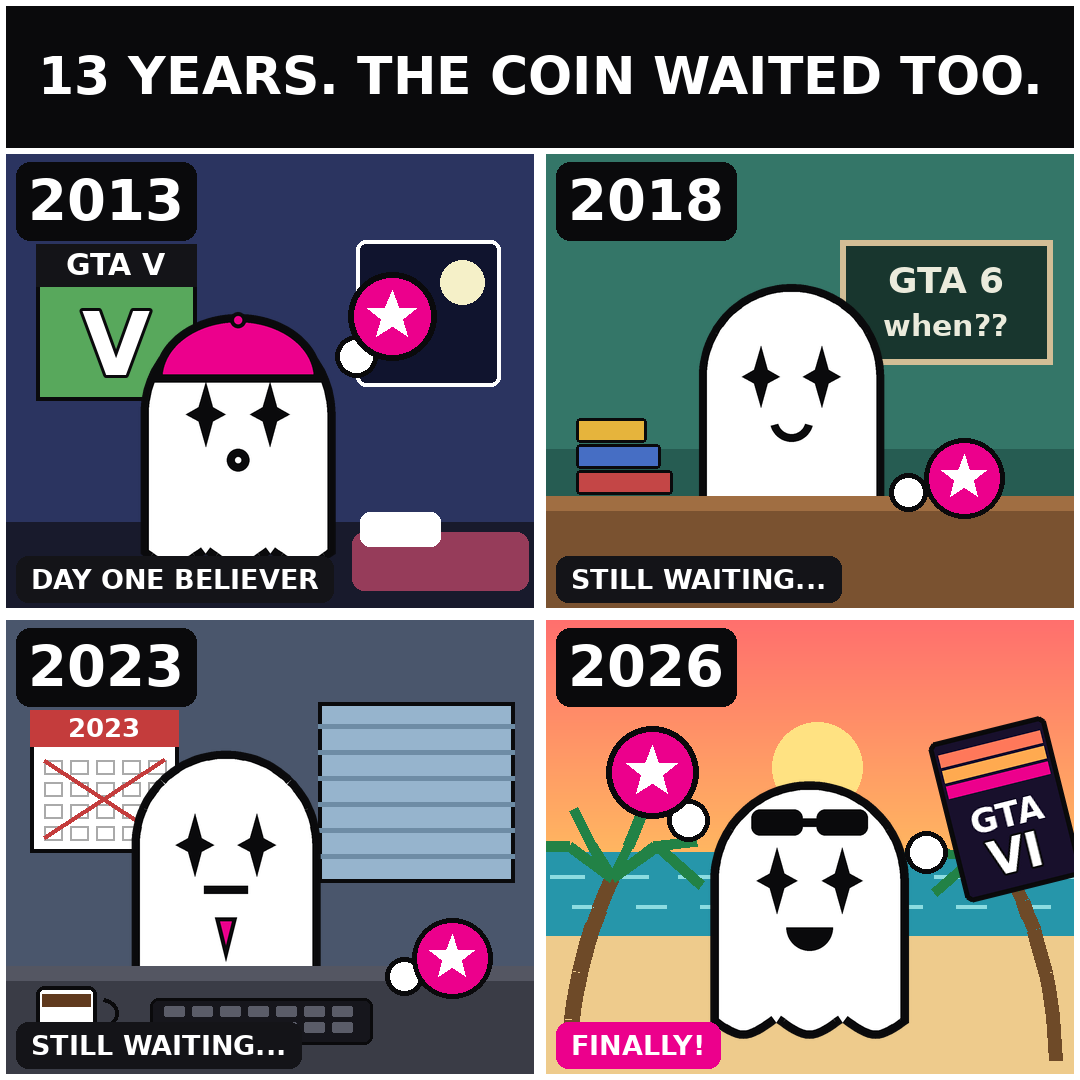
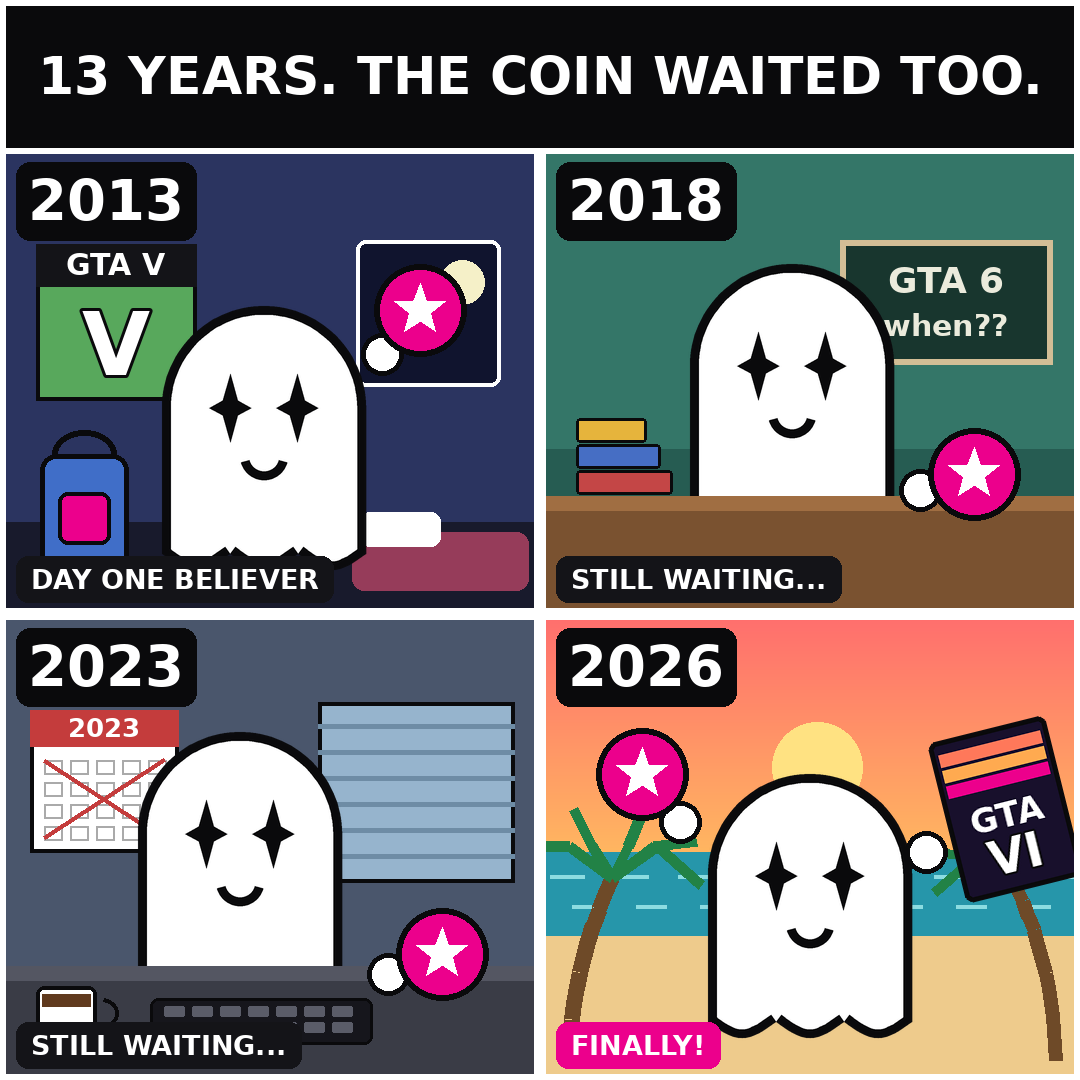
Apply design note: byte-identical ghost in all 4 panels (300px, 64% of panel), years shown by props only, uniform big coin (r46)

diff --git a/tools/make_meme.py b/tools/make_meme.py
@@ -74,11 +74,15 @@ def draw_coin(d, cx, cy, r):
     d.polygon(star_points(cx, cy, r * 0.58, r * 0.24), fill=WHITE)
 
 
-def make_ghost(height, cap=False, tie=False, shades_up=False, mood="smile"):
-    """Render the ghost once, supersampled, and return an RGBA image.
+def make_ghost(height):
+    """Render THE ghost, supersampled, and return an RGBA image.
 
-    The design never changes between panels -- only the accessories and the
-    mouth do -- which is what makes the four panels read as one character.
+    Design note (second-opinion consult, applied): the ghost's design is
+    byte-identical in all four panels -- same body, same sparkle eyes, same
+    smile -- and every panel calls this with the same height. The ghost is
+    never aged, shrunk, dressed up or given a new expression; the years pass
+    only through the props and the setting around it (backpack, school
+    books, coffee and office, game case and beach).
     """
     ss = 3
     h = int(height * ss)
@@ -87,8 +91,6 @@ def make_ghost(height, cap=False, tie=False, shades_up=False, mood="smile"):
     d = ImageDraw.Draw(img)
     lw = max(3, int(0.030 * h))
 
-    # Backpack strap hint behind the body (kid panel uses the cap instead,
-    # but a side satchel block keeps the silhouette playful at small size).
     pad = lw * 2
     left, right = pad, w - pad
     dome_cy = pad + (right - left) / 2
@@ -117,43 +119,10 @@ def make_ghost(height, cap=False, tie=False, shades_up=False, mood="smile"):
     for ex in (int(0.36 * w), int(0.64 * w)):
         d.polygon(sparkle_points(ex, eye_y, eye_r), fill=BLACK)
 
-    # Mouth: the only expression that changes as the years drag on.
+    # Mouth: one gentle smile, the same in every panel.
     mx, my = w // 2, int(0.56 * h)
     mw = int(0.10 * w)
-    if mood == "wow":                        # 2013: small round 'o'
-        d.ellipse([mx - mw // 2, my - mw // 2, mx + mw // 2, my + mw // 2],
-                  outline=BLACK, width=lw)
-    elif mood == "flat":                     # 2023: deadpan office line
-        d.line([mx - mw, my, mx + mw, my], fill=BLACK, width=lw)
-    elif mood == "grin":                     # 2026: finally!
-        d.pieslice([mx - mw, my - mw, mx + mw, my + mw], 0, 180,
-                   fill=BLACK, outline=BLACK, width=lw)
-    else:                                    # gentle smile
-        d.arc([mx - mw, my - mw, mx + mw, my + mw], 15, 165, fill=BLACK, width=lw)
-
-    if tie:
-        tx, ty = w // 2, int(0.66 * h)
-        d.polygon([(tx - int(0.05 * w), ty), (tx + int(0.05 * w), ty),
-                   (tx, ty + int(0.16 * h))], fill=MAGENTA, outline=BLACK, width=max(2, lw // 2))
-    if cap:
-        # A kid's cap: magenta half-dome on the head plus a brim.
-        d.pieslice([left + int(0.06 * w), pad - int(0.01 * h),
-                    right - int(0.06 * w), dome_cy + int(0.10 * h)],
-                   180, 360, fill=MAGENTA, outline=BLACK, width=lw)
-        # No side brim (it read as a stray bar across the face) -- just a
-        # little button on top of the cap.
-        bx, by = w // 2, pad + int(0.012 * h)
-        br = int(0.035 * w)
-        d.ellipse([bx - br, by - br, bx + br, by + br], fill=MAGENTA,
-                  outline=BLACK, width=max(2, lw // 2))
-    if shades_up:
-        # Sunglasses pushed up on the forehead -- sparkle eyes stay visible.
-        sy = int(0.20 * h)
-        for cx in (int(0.36 * w), int(0.64 * w)):
-            d.rounded_rectangle([cx - int(0.11 * w), sy - int(0.045 * h),
-                                 cx + int(0.11 * w), sy + int(0.045 * h)],
-                                radius=int(0.03 * h), fill=BLACK)
-        d.line([int(0.47 * w), sy, int(0.53 * w), sy], fill=BLACK, width=lw)
+    d.arc([mx - mw, my - mw, mx + mw, my + mw], 15, 165, fill=BLACK, width=lw)
 
     img = img.resize((int(height * 0.80), int(height)), Image.LANCZOS)
     return img
@@ -185,7 +154,7 @@ def year_label(panel, year, tag, tag_fill=(20, 20, 24)):
 
 
 def panel_2013():
-    """2013 -- kid ghost in a bedroom, GTA V poster on the wall, coin raised."""
+    """2013 -- bedroom, GTA V poster on the wall, backpack, coin raised."""
     p = Image.new("RGB", (PANEL_W, PANEL_H), (43, 52, 96))
     d = ImageDraw.Draw(p)
     d.rectangle([0, PANEL_H - 92, PANEL_W, PANEL_H], fill=(24, 26, 44))  # floor
@@ -203,11 +172,19 @@ def panel_2013():
     d.rounded_rectangle([352, 384, 528, 442], radius=12, fill=(150, 60, 90))
     d.rounded_rectangle([360, 364, 440, 398], radius=10, fill=WHITE)
 
-    ghost = make_ghost(286, cap=True, mood="wow")
-    paste_ghost(p, ghost, 238, 438)
+    # The 2013 prop: a school backpack standing on the floor beside the
+    # ghost (the ghost itself is NOT dressed up or shrunk -- same ghost).
+    d.rounded_rectangle([40, 306, 128, 424], radius=16, fill=(64, 110, 200),
+                        outline=BLACK, width=5)
+    d.rounded_rectangle([58, 344, 110, 396], radius=10, fill=MAGENTA,
+                        outline=BLACK, width=4)
+    d.arc([52, 282, 116, 330], 180, 360, fill=BLACK, width=6)
+
+    ghost = make_ghost(300)
+    paste_ghost(p, ghost, 264, 440)
     # Raised little hand + the coin, held up hopefully.
-    draw_hand(p, 356, 208, 21)
-    draw_coin(d, 392, 168, 44)
+    draw_hand(p, 382, 206, 21)
+    draw_coin(d, 420, 162, 46)
     year_label(p, "2013", "DAY ONE BELIEVER")
     return p
 
@@ -222,8 +199,8 @@ def panel_2018():
     d.text((406, 132), "GTA 6", font=font(36), anchor="mm", fill=(235, 235, 220))
     d.text((406, 178), "when??", font=font(30), anchor="mm", fill=(235, 235, 220))
 
-    ghost = make_ghost(272, mood="smile")
-    paste_ghost(p, ghost, 252, 392)
+    ghost = make_ghost(300)
+    paste_ghost(p, ghost, 252, 398)
 
     # Desk across the bottom, drawn over the ghost's base.
     d.rectangle([0, 348, PANEL_W, PANEL_H], fill=(122, 82, 48))
@@ -234,9 +211,10 @@ def panel_2018():
         y = 348 - 26 * (i + 1)
         d.rounded_rectangle([36, y, 36 + bw, y + 24], radius=4, fill=col,
                             outline=BLACK, width=3)
-    # The coin waits on the desk, right by the ghost's hand.
-    draw_hand(p, 368, 344, 19)
-    draw_coin(d, 424, 330, 40)
+    # The coin waits on the desk, right by the ghost's hand -- same big
+    # coin as every other panel (radius 46 everywhere).
+    draw_hand(p, 380, 342, 21)
+    draw_coin(d, 434, 326, 46)
     year_label(p, "2018", "STILL WAITING...")
     return p
 
@@ -259,8 +237,8 @@ def panel_2023():
     d.line([44, 146, 164, 224], fill=(196, 60, 60), width=4)
     d.line([164, 146, 44, 224], fill=(196, 60, 60), width=4)
 
-    ghost = make_ghost(278, tie=True, mood="flat")
-    paste_ghost(p, ghost, 226, 398)
+    ghost = make_ghost(300)
+    paste_ghost(p, ghost, 240, 400)
 
     # Office desk across the bottom.
     d.rectangle([0, 352, PANEL_W, PANEL_H], fill=(58, 60, 70))
@@ -277,8 +255,8 @@ def panel_2023():
             d.rounded_rectangle([164 + c * 28, 392 + r * 16, 184 + c * 28, 402 + r * 16],
                                 radius=2, fill=(90, 92, 104))
     # The coin, patient as ever, right beside the keyboard.
-    draw_hand(p, 404, 362, 19)
-    draw_coin(d, 452, 344, 40)
+    draw_hand(p, 388, 360, 21)
+    draw_coin(d, 442, 340, 46)
     year_label(p, "2023", "STILL WAITING...")
     return p
 
@@ -331,12 +309,12 @@ def panel_2026():
     palm(d, 30, 452, 1.25, 1)
     palm(d, 516, 446, 1.15, -1)
 
-    ghost = make_ghost(292, shades_up=True, mood="grin")
+    ghost = make_ghost(300)
     paste_ghost(p, ghost, 270, 442)
 
     # Coin raised high in the left hand -- it waited too.
-    draw_hand(p, 148, 206, 21)
-    draw_coin(d, 112, 158, 46)
+    draw_hand(p, 140, 208, 21)
+    draw_coin(d, 102, 160, 46)
     # ...and finally, the game itself, raised in the right hand.
     case = make_game_case()
     p.paste(case, (382, 96), case)
